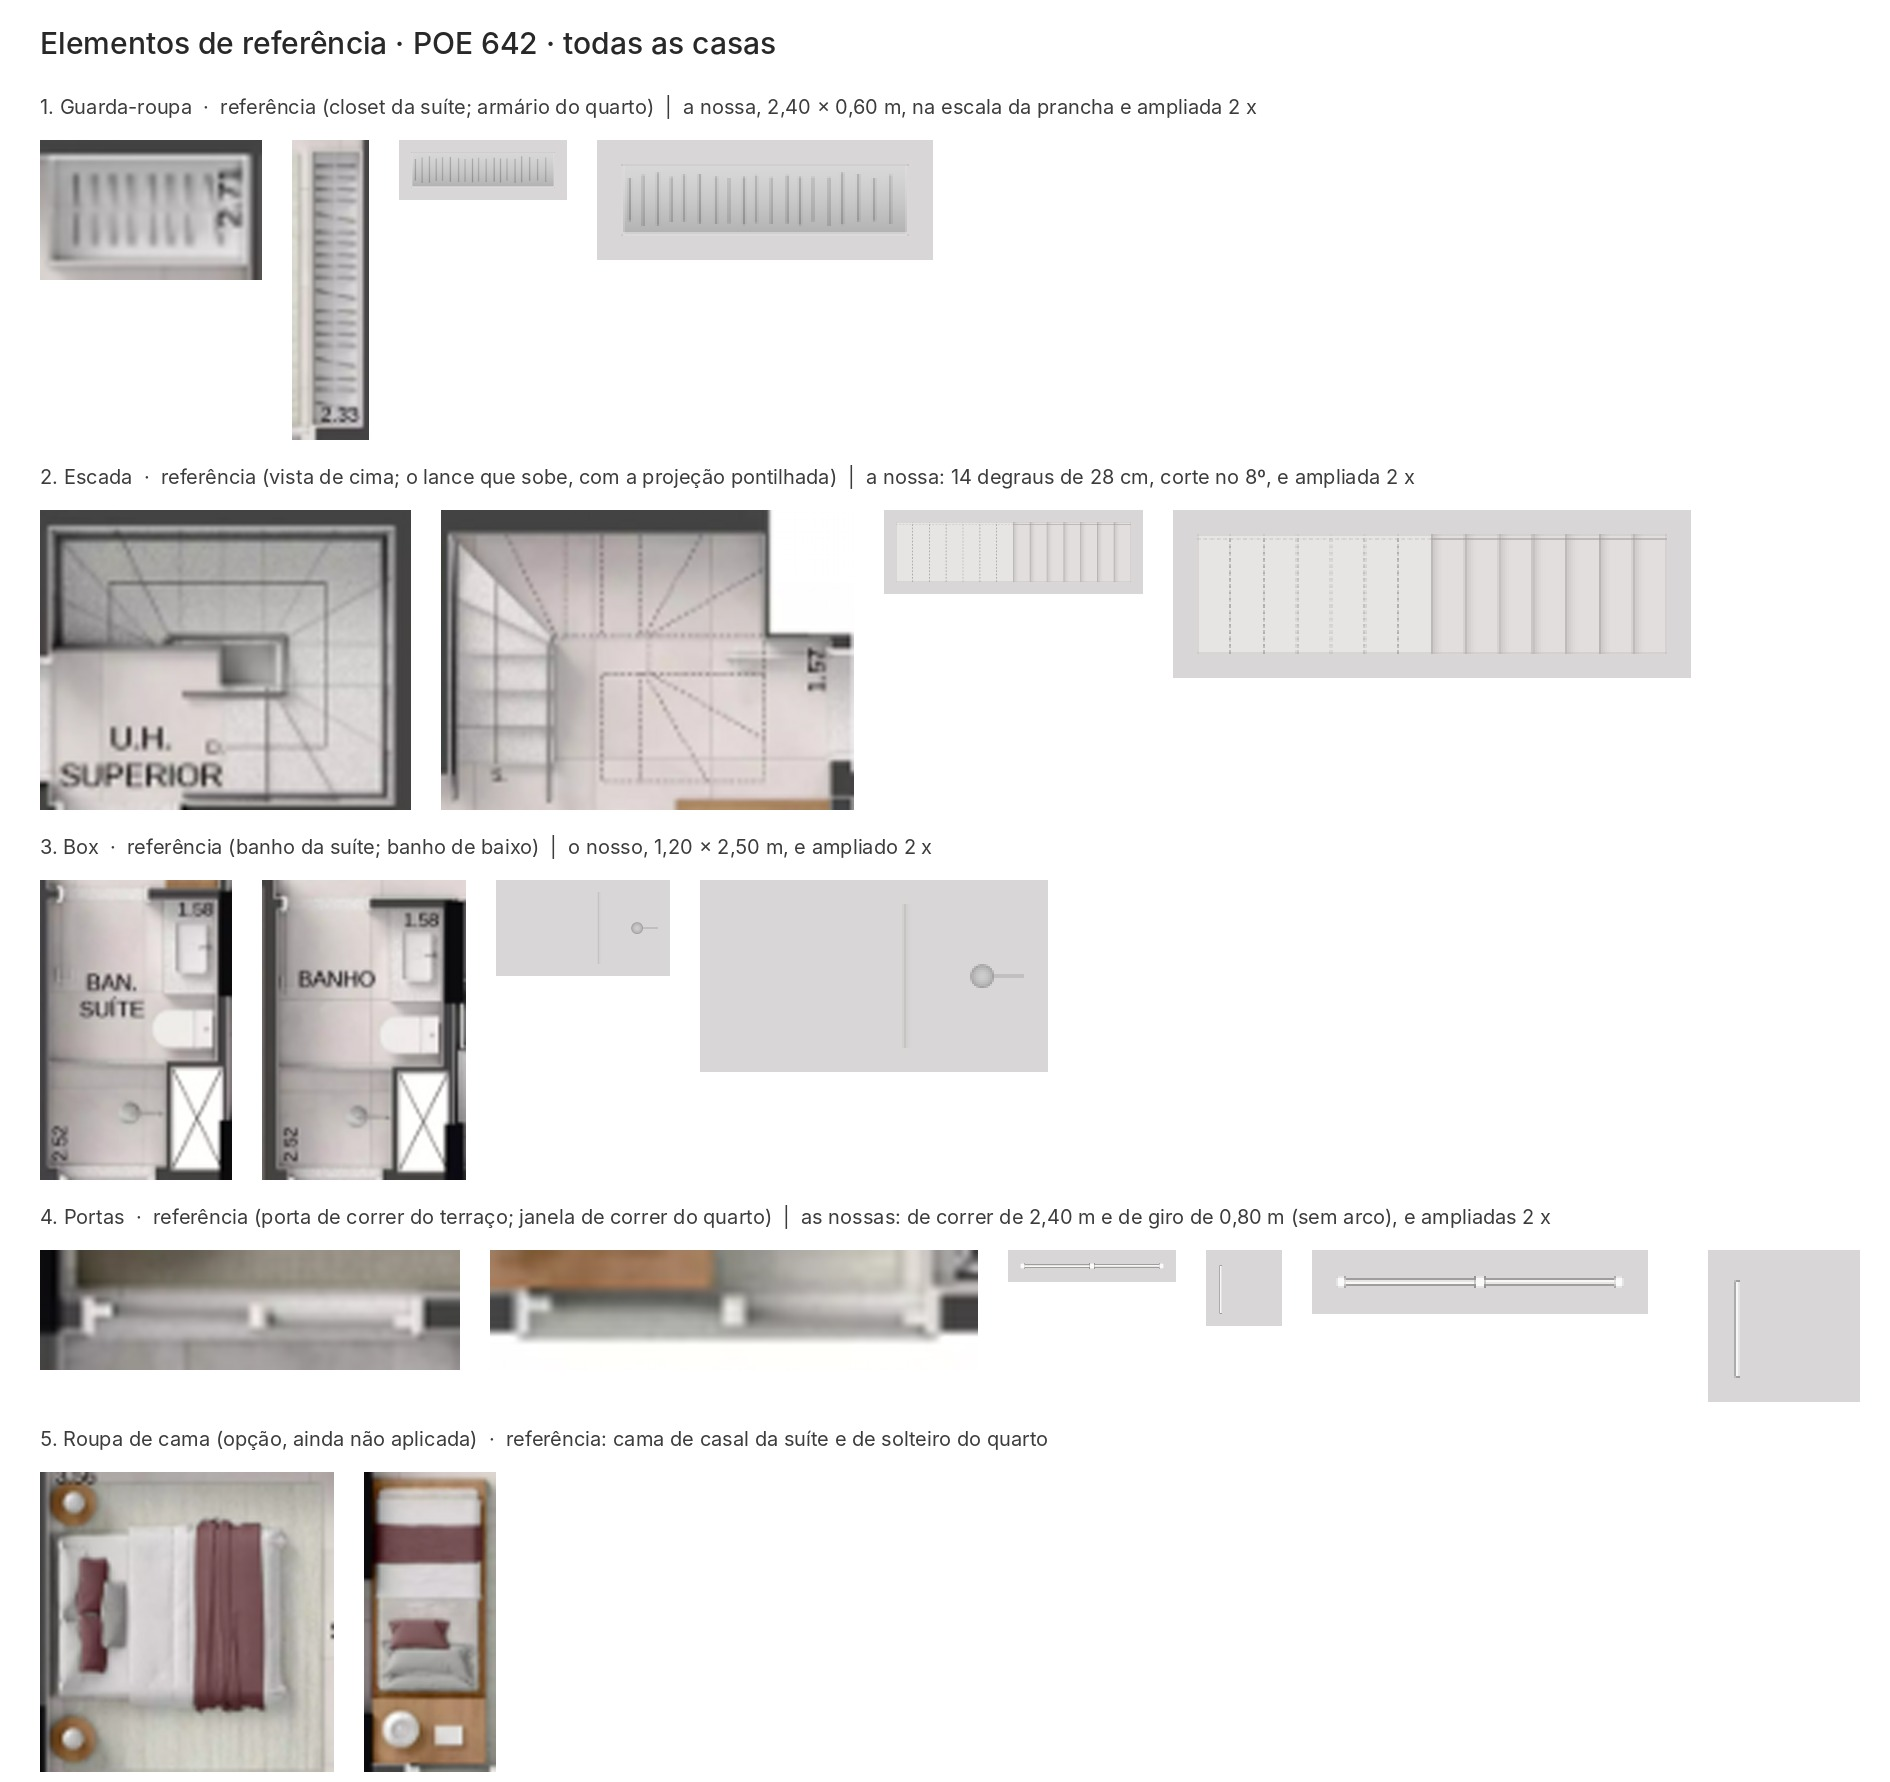
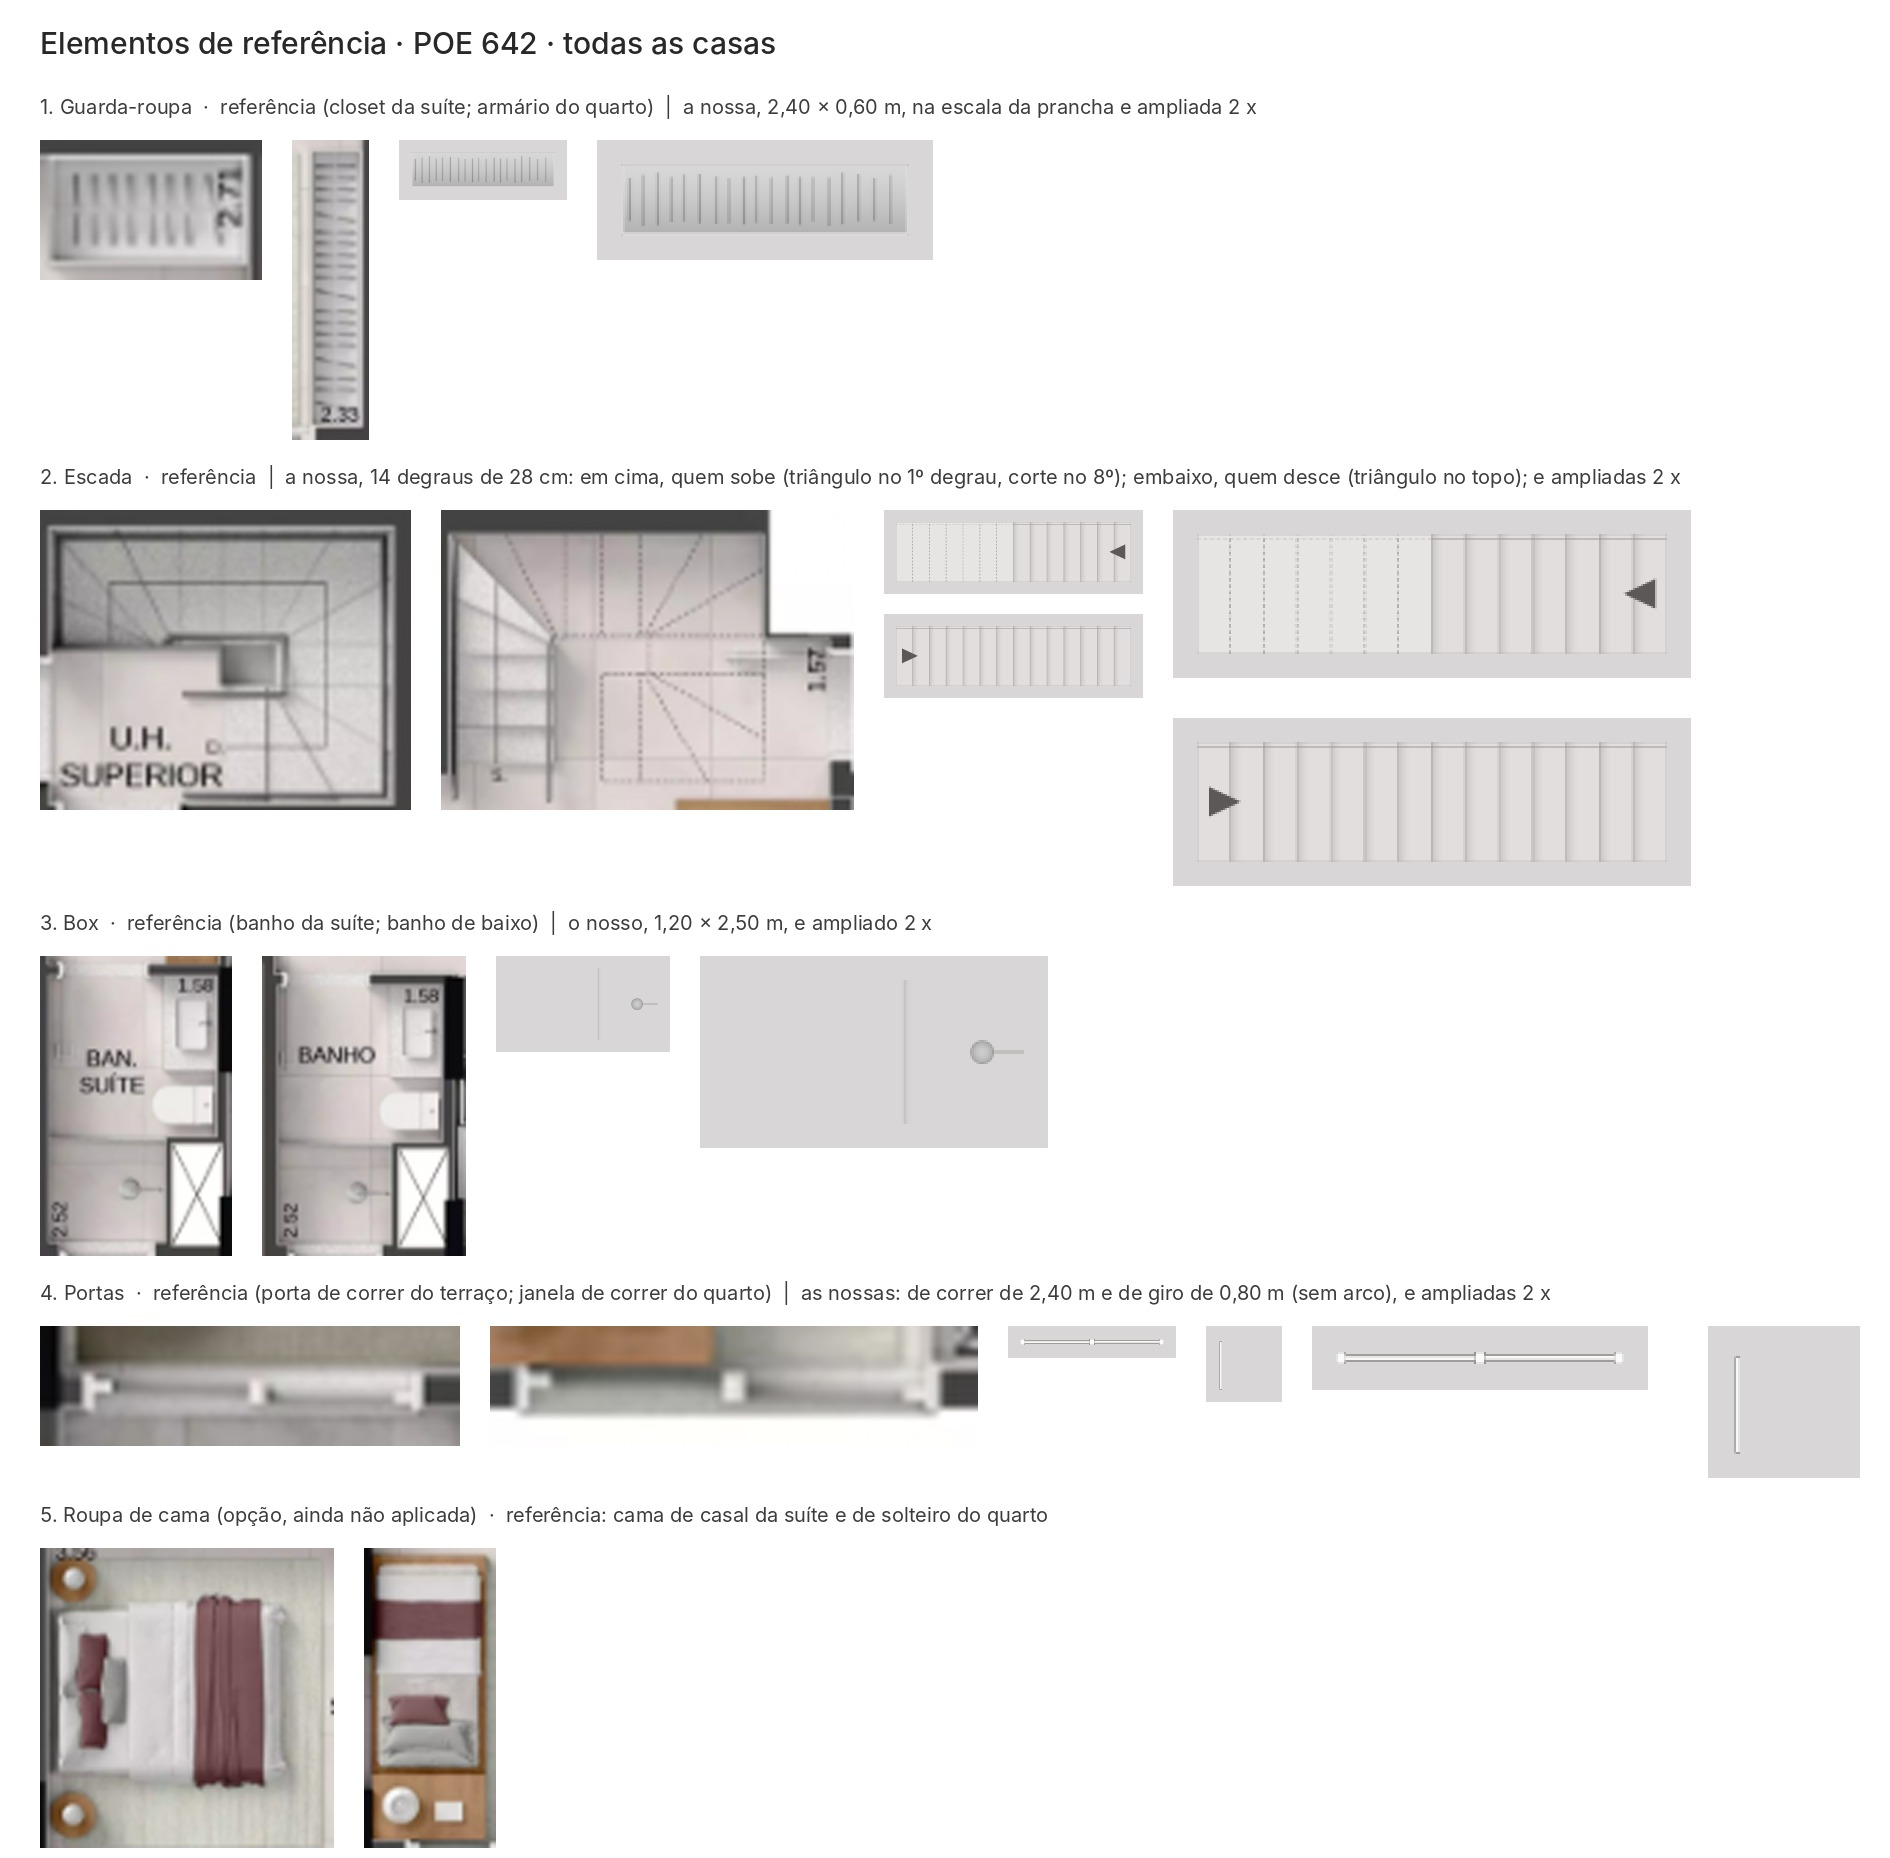
Regras: triângulo de orientação no início das escadas (R14), tamanho do carro e ordem de execução
O usuário pediu: "precisamos do triangulo como símbolo de orientação no
inicio de escadas, indicando o sentido ora subida ora descida, a depender
da situação".

Na biblioteca, escada(..., triangulo="sobe" | "desce") desenha um
triângulo cheio, cinza-escuro, de 24 x 26 cm, no meio da largura. Na
subida ele fica no 1º degrau; na descida, no topo. Ele substitui a seta,
e a cartela de elementos mostra os dois casos.

Também registrados:
- carro de 4,70 x 1,85 m aceito;
- ordem de execução: E, A, B, C, D.

Claude-Session: https://claude.ai/code/session_01Mm19WX3KoLN1nXMDF5Ay3F

diff --git a/projetos/_texturas/elementos.py b/projetos/_texturas/elementos.py
@@ -19,6 +19,9 @@ O que se vê nelas, e como cada função desenha (em metros, na escala do render
   com contorno, saindo do caixilho; `porta_giro`: a folha branca fina, aberta a 90°, sem o arco (decisão do
   usuário, 19/10/26: "remover os arcos, escadas com linhas"; com `arco=True`, o arco cinza fino da regra antiga).
 - Escadas com linhas (mesma decisão): o bocel em linha cinza suave, como na referência.
+- Triângulo de orientação no início da escada (usuário, 19/10/26): cheio, cinza-escuro, 24 x 26 cm, no meio da
+  largura, a 10 cm do início, com a ponta no sentido do percurso: subida, no 1º degrau, para quem sobe a partir do
+  pavimento; descida, no topo, para quem desce (`escada(..., triangulo="sobe" | "desce")`).
 - Roupa de cama, como mais uma opção (usuário, 19/10/26, com a mesma planta: "use as referencias de roupa de cama.
   como mais uma opção. ainda não aplique"): só a referência, na cartela, sem função de desenho ainda. Na cama de
   casal, lençol e edredom brancos com a dobra branca junto aos travesseiros, uma manta bordô (RGB ~118, 81, 85)
@@ -92,8 +95,25 @@ def guarda_roupa(comp_m, prof_m, px_m, semente=1):
     return _reduz(t, W, H), np.ones((H, W), np.float32)
 
 
-def escada(larg_m, n, piso_m, px_m, corte, cor=(222, 222, 226), esmaecer=0.8):
-    """n degraus subindo para cima (o 1º embaixo); de `corte` em diante, a projeção pontilhada, esmaecida."""
+TRIANGULO = {"base_m": 0.24, "altura_m": 0.26, "recuo_m": 0.10, "cor": (88, 88, 92)}
+
+
+def triangulo_escada(t, k, w, y_ponta, para_cima):
+    """O triângulo de orientação no início da escada (usuário, 19/10/26: "precisamos do triangulo como símbolo de
+    orientação no inicio de escadas, indicando o sentido ora subida ora descida, a depender da situação"): cheio,
+    cinza-escuro, no meio da largura, com a ponta no sentido do percurso de quem chega por este pavimento."""
+    q = TRIANGULO
+    cx, b, a = w / 2, q["base_m"] * k / 2, q["altura_m"] * k
+    yb = y_ponta + (a if para_cima else -a)
+    pts = np.int32(np.round([(cx, y_ponta), (cx - b, yb), (cx + b, yb)]))
+    cv2.fillPoly(t, [pts], q["cor"], lineType=cv2.LINE_8)
+
+
+def escada(larg_m, n, piso_m, px_m, corte=None, cor=(222, 222, 226), esmaecer=0.8, triangulo=None):
+    """n degraus subindo para cima (o 1º embaixo); de `corte` em diante, a projeção pontilhada, esmaecida (corte=None:
+    a escada inteira cheia). triangulo="sobe": no 1º degrau, apontando para cima (quem está neste pavimento sobe);
+    "desce": no último, apontando para baixo (quem está no pavimento de cima desce)."""
+    corte = n + 1 if corte is None else corte
     W, H = _px(larg_m, px_m), _px(n * piso_m, px_m)
     k = px_m * SS
     w, h = W * SS, H * SS
@@ -112,7 +132,7 @@ def escada(larg_m, n, piso_m, px_m, corte, cor=(222, 222, 226), esmaecer=0.8):
             t[y0:y0 + len(sombra)] -= 26 * sombra
             _retangulo(t, 0, y_boc - 0.006 * k, w, y_boc + 0.006 * k, (176, 176, 180))
     # depois do corte: esmaecido, bocéis pontilhados
-    yc = h - (corte - 1) * p
+    yc = max(0.0, h - (corte - 1) * p)
     t[:int(yc)] = 255 - (255 - t[:int(yc)]) * esmaecer
     traco, vao = 0.03 * k, 0.025 * k
     for i in range(corte - 1, n - 1):
@@ -128,6 +148,11 @@ def escada(larg_m, n, piso_m, px_m, corte, cor=(222, 222, 226), esmaecer=0.8):
         _retangulo(t, w - 0.05 * k, x, w - 0.04 * k, min(yc, x + traco), (190, 190, 194))
         x += traco + vao
     _contorno(t, 0, 0, w, h, (170, 170, 174), max(1, 0.005 * k))
+    rec = TRIANGULO["recuo_m"] * k
+    if triangulo == "sobe":
+        triangulo_escada(t, k, w, h - rec - TRIANGULO["altura_m"] * k, True)
+    elif triangulo == "desce":
+        triangulo_escada(t, k, w, rec + TRIANGULO["altura_m"] * k, False)
     return _reduz(t, W, H), np.ones((H, W), np.float32)
 
 
@@ -231,8 +256,13 @@ def cartela():
         return cv2.resize(a, None, fx=f, fy=f, interpolation=cv2.INTER_NEAREST)
 
     gr = sobre_piso(*guarda_roupa(2.4, 0.6, px_m))
-    es = sobre_piso(*escada(1.0, 14, 0.28, px_m, corte=8))
+    es = sobre_piso(*escada(1.0, 14, 0.28, px_m, corte=8, triangulo="sobe"))
     es = cv2.rotate(es, cv2.ROTATE_90_COUNTERCLOCKWISE)
+    ed = sobre_piso(*escada(1.0, 14, 0.28, px_m, triangulo="desce"))
+    ed = cv2.rotate(ed, cv2.ROTATE_90_COUNTERCLOCKWISE)
+    escadas = np.full((es.shape[0] + 20 + ed.shape[0], es.shape[1], 3), 255, np.float32)
+    escadas[:es.shape[0]] = es
+    escadas[es.shape[0] + 20:] = ed
     bx = sobre_piso(*box(1.2, 2.5, 1.5, px_m))
     pc = sobre_piso(*porta_correr(2.4, px_m))
     pg = sobre_piso(*porta_giro(0.8, px_m))
@@ -243,9 +273,9 @@ def cartela():
         ("1. Guarda-roupa  ·  referência (closet da suíte; armário do quarto)  |  a nossa, 2,40 x 0,60 m, na escala "
          "da prancha e ampliada 2 x",
          [caber(sup[17:46, 122:168], 140), caber(sup[133:234, 232:258]), gr, amp(gr)]),
-        ("2. Escada  ·  referência (vista de cima; o lance que sobe, com a projeção pontilhada)  |  a nossa: 14 "
-         "degraus de 28 cm, corte no 8º, e ampliada 2 x",
-         [caber(sup[16:92, 166:260]), caber(inf[22:107, 280:397]), es, amp(es)]),
+        ("2. Escada  ·  referência  |  a nossa, 14 degraus de 28 cm: em cima, quem sobe (triângulo no 1º degrau, "
+         "corte no 8º); embaixo, quem desce (triângulo no topo); e ampliadas 2 x",
+         [caber(sup[16:92, 166:260]), caber(inf[22:107, 280:397]), escadas, amp(escadas)]),
         ("3. Box  ·  referência (banho da suíte; banho de baixo)  |  o nosso, 1,20 x 2,50 m, e ampliado 2 x",
          [caber(sup[128:234, 102:170]), caber(inf[133:242, 213:287]), bx, amp(bx)]),
         ("4. Portas  ·  referência (porta de correr do terraço; janela de correr do quarto)  |  as nossas: de "
